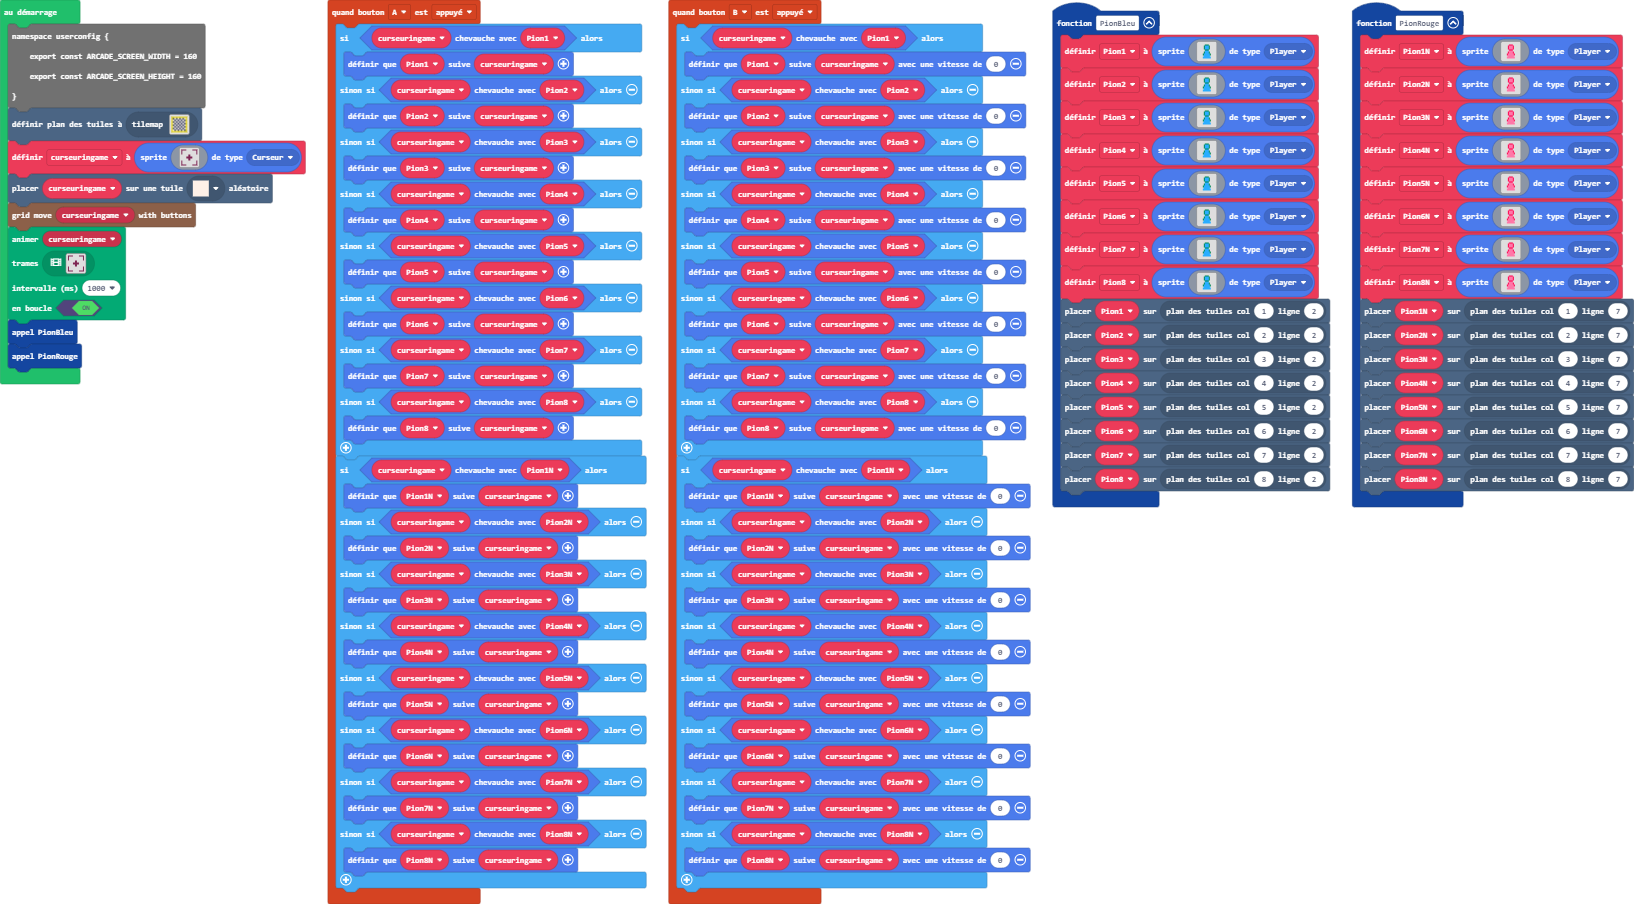
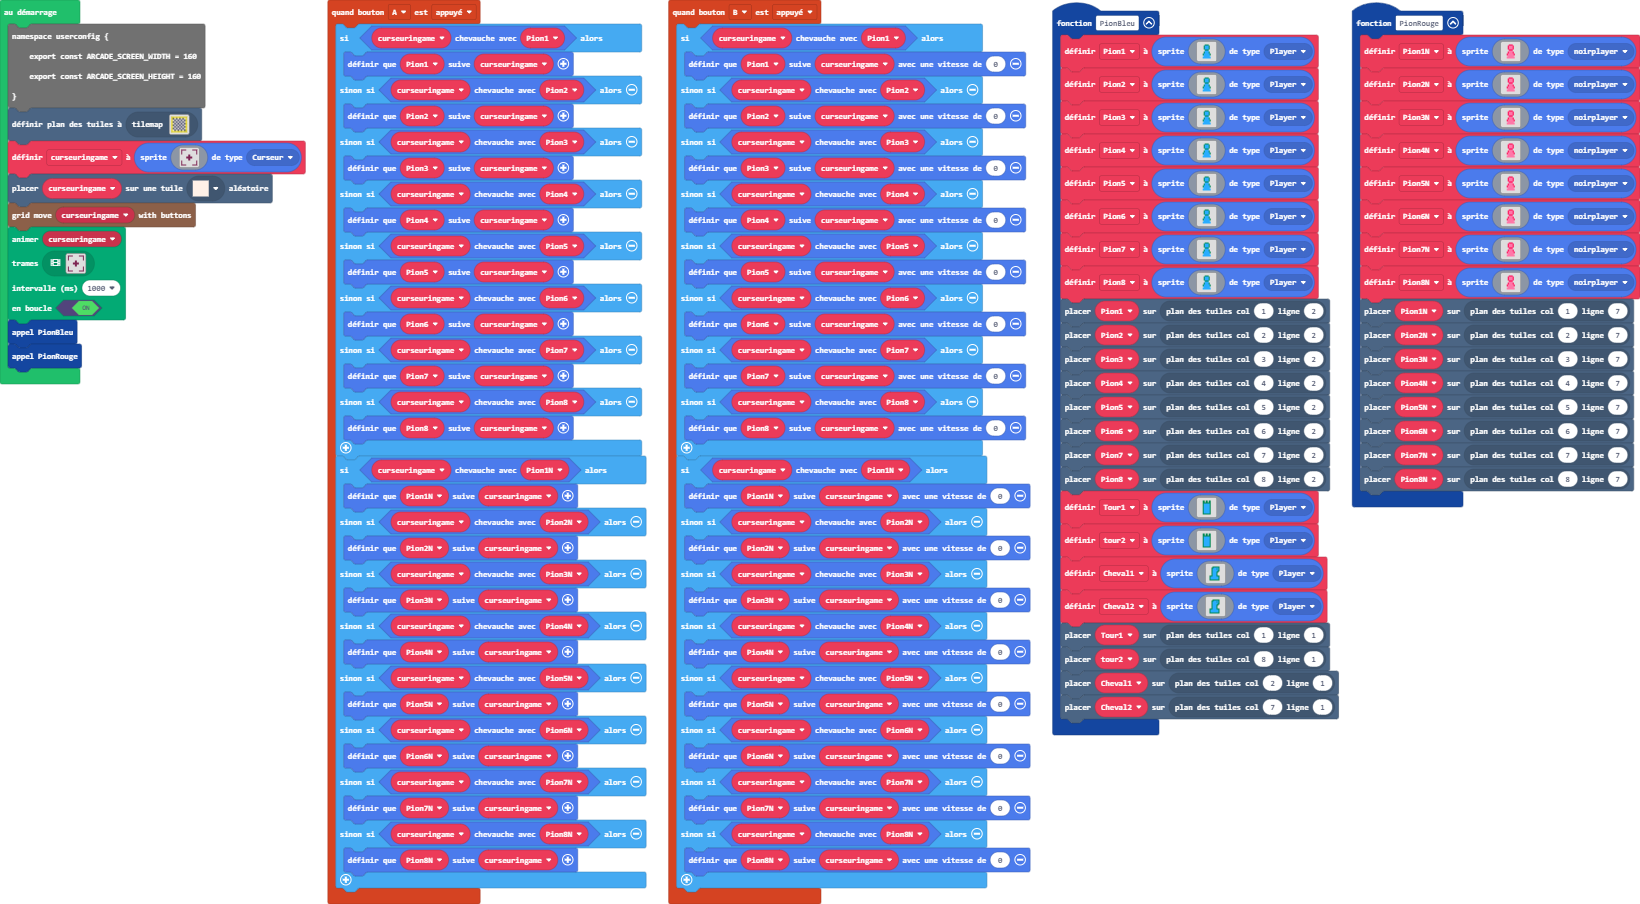
Mise à jour main.blocks, main.ts

diff --git a/main.ts b/main.ts
@@ -1,5 +1,6 @@
 namespace SpriteKind {
     export const Curseur = SpriteKind.create()
+    export const noirplayer = SpriteKind.create()
 }
 function PionBleu () {
     Pion1 = sprites.create(img`
@@ -154,6 +155,82 @@ function PionBleu () {
     tiles.placeOnTile(Pion6, tiles.getTileLocation(6, 2))
     tiles.placeOnTile(Pion7, tiles.getTileLocation(7, 2))
     tiles.placeOnTile(Pion8, tiles.getTileLocation(8, 2))
+    Tour1 = sprites.create(img`
+        . . . . . . . . . . . . . . . . 
+        . . . . 6 6 . 6 6 . 6 6 . . . . 
+        . . . . 6 6 . 6 6 . 6 6 . . . . 
+        . . . . 6 6 6 6 6 6 6 6 . . . . 
+        . . . . 6 8 8 8 8 8 8 6 . . . . 
+        . . . . 6 8 8 8 8 8 8 6 . . . . 
+        . . . . 6 8 8 8 8 8 8 6 . . . . 
+        . . . . 6 8 8 8 8 8 8 6 . . . . 
+        . . . . 6 8 8 8 8 8 8 6 . . . . 
+        . . . . 6 8 8 8 8 8 8 6 . . . . 
+        . . . . 6 8 8 8 8 8 8 6 . . . . 
+        . . . . 6 8 8 8 8 8 8 6 . . . . 
+        . . . . 6 8 8 8 8 8 8 6 . . . . 
+        . . . . 6 8 8 8 8 8 8 6 . . . . 
+        . . . . 6 6 6 6 6 6 6 6 . . . . 
+        . . . . . . . . . . . . . . . . 
+        `, SpriteKind.Player)
+    tour2 = sprites.create(img`
+        . . . . . . . . . . . . . . . . 
+        . . . . 6 6 . 6 6 . 6 6 . . . . 
+        . . . . 6 6 . 6 6 . 6 6 . . . . 
+        . . . . 6 6 6 6 6 6 6 6 . . . . 
+        . . . . 6 8 8 8 8 8 8 6 . . . . 
+        . . . . 6 8 8 8 8 8 8 6 . . . . 
+        . . . . 6 8 8 8 8 8 8 6 . . . . 
+        . . . . 6 8 8 8 8 8 8 6 . . . . 
+        . . . . 6 8 8 8 8 8 8 6 . . . . 
+        . . . . 6 8 8 8 8 8 8 6 . . . . 
+        . . . . 6 8 8 8 8 8 8 6 . . . . 
+        . . . . 6 8 8 8 8 8 8 6 . . . . 
+        . . . . 6 8 8 8 8 8 8 6 . . . . 
+        . . . . 6 8 8 8 8 8 8 6 . . . . 
+        . . . . 6 6 6 6 6 6 6 6 . . . . 
+        . . . . . . . . . . . . . . . . 
+        `, SpriteKind.Player)
+    Cheval1 = sprites.create(img`
+        . . . . . . . . . . . . . . . . 
+        . . . . . 6 6 6 6 6 6 6 . . . . 
+        . . . . 6 6 8 8 8 8 8 6 . . . . 
+        . . . . 6 8 8 8 8 6 8 6 . . . . 
+        . . . . 6 8 8 8 8 8 8 6 . . . . 
+        . . . . 6 8 8 8 8 8 6 6 . . . . 
+        . . . . 6 8 8 8 8 6 6 . . . . . 
+        . . . . 6 8 8 8 8 6 . . . . . . 
+        . . . . 6 8 8 8 8 6 . . . . . . 
+        . . . . 6 8 8 8 8 6 . . . . . . 
+        . . 6 6 6 8 8 8 8 6 6 6 . . . . 
+        . . 6 8 8 8 8 8 8 8 8 6 . . . . 
+        . . 6 8 8 8 8 8 8 8 8 6 . . . . 
+        . . 6 8 8 8 8 8 8 8 8 6 . . . . 
+        . . 6 6 6 6 6 6 6 6 6 6 . . . . 
+        . . . . . . . . . . . . . . . . 
+        `, SpriteKind.Player)
+    Cheval2 = sprites.create(img`
+        . . . . . . . . . . . . . . . . 
+        . . . . . 6 6 6 6 6 6 6 . . . . 
+        . . . . 6 6 8 8 8 8 8 6 . . . . 
+        . . . . 6 8 8 8 8 6 8 6 . . . . 
+        . . . . 6 8 8 8 8 8 8 6 . . . . 
+        . . . . 6 8 8 8 8 8 6 6 . . . . 
+        . . . . 6 8 8 8 8 6 6 . . . . . 
+        . . . . 6 8 8 8 8 6 . . . . . . 
+        . . . . 6 8 8 8 8 6 . . . . . . 
+        . . . . 6 8 8 8 8 6 . . . . . . 
+        . . 6 6 6 8 8 8 8 6 6 6 . . . . 
+        . . 6 8 8 8 8 8 8 8 8 6 . . . . 
+        . . 6 8 8 8 8 8 8 8 8 6 . . . . 
+        . . 6 8 8 8 8 8 8 8 8 6 . . . . 
+        . . 6 6 6 6 6 6 6 6 6 6 . . . . 
+        . . . . . . . . . . . . . . . . 
+        `, SpriteKind.Player)
+    tiles.placeOnTile(Tour1, tiles.getTileLocation(1, 1))
+    tiles.placeOnTile(tour2, tiles.getTileLocation(8, 1))
+    tiles.placeOnTile(Cheval1, tiles.getTileLocation(2, 1))
+    tiles.placeOnTile(Cheval2, tiles.getTileLocation(7, 1))
 }
 controller.A.onEvent(ControllerButtonEvent.Pressed, function () {
     if (curseuringame.overlapsWith(Pion1)) {
@@ -209,7 +286,7 @@ function PionRouge () {
         . . . . 3 3 3 3 3 3 3 3 . . . . 
         . . . . 3 3 3 3 3 3 3 3 . . . . 
         . . . . . . . . . . . . . . . . 
-        `, SpriteKind.Player)
+        `, SpriteKind.noirplayer)
     Pion2N = sprites.create(img`
         . . . . . . . . . . . . . . . . 
         . . . . . . 2 2 2 2 . . . . . . 
@@ -227,7 +304,7 @@ function PionRouge () {
         . . . . 3 3 3 3 3 3 3 3 . . . . 
         . . . . 3 3 3 3 3 3 3 3 . . . . 
         . . . . . . . . . . . . . . . . 
-        `, SpriteKind.Player)
+        `, SpriteKind.noirplayer)
     Pion3N = sprites.create(img`
         . . . . . . . . . . . . . . . . 
         . . . . . . 2 2 2 2 . . . . . . 
@@ -245,7 +322,7 @@ function PionRouge () {
         . . . . 3 3 3 3 3 3 3 3 . . . . 
         . . . . 3 3 3 3 3 3 3 3 . . . . 
         . . . . . . . . . . . . . . . . 
-        `, SpriteKind.Player)
+        `, SpriteKind.noirplayer)
     Pion4N = sprites.create(img`
         . . . . . . . . . . . . . . . . 
         . . . . . . 2 2 2 2 . . . . . . 
@@ -263,7 +340,7 @@ function PionRouge () {
         . . . . 3 3 3 3 3 3 3 3 . . . . 
         . . . . 3 3 3 3 3 3 3 3 . . . . 
         . . . . . . . . . . . . . . . . 
-        `, SpriteKind.Player)
+        `, SpriteKind.noirplayer)
     Pion5N = sprites.create(img`
         . . . . . . . . . . . . . . . . 
         . . . . . . 2 2 2 2 . . . . . . 
@@ -281,7 +358,7 @@ function PionRouge () {
         . . . . 3 3 3 3 3 3 3 3 . . . . 
         . . . . 3 3 3 3 3 3 3 3 . . . . 
         . . . . . . . . . . . . . . . . 
-        `, SpriteKind.Player)
+        `, SpriteKind.noirplayer)
     Pion6N = sprites.create(img`
         . . . . . . . . . . . . . . . . 
         . . . . . . 2 2 2 2 . . . . . . 
@@ -299,7 +376,7 @@ function PionRouge () {
         . . . . 3 3 3 3 3 3 3 3 . . . . 
         . . . . 3 3 3 3 3 3 3 3 . . . . 
         . . . . . . . . . . . . . . . . 
-        `, SpriteKind.Player)
+        `, SpriteKind.noirplayer)
     Pion7N = sprites.create(img`
         . . . . . . . . . . . . . . . . 
         . . . . . . 2 2 2 2 . . . . . . 
@@ -317,7 +394,7 @@ function PionRouge () {
         . . . . 3 3 3 3 3 3 3 3 . . . . 
         . . . . 3 3 3 3 3 3 3 3 . . . . 
         . . . . . . . . . . . . . . . . 
-        `, SpriteKind.Player)
+        `, SpriteKind.noirplayer)
     Pion8N = sprites.create(img`
         . . . . . . . . . . . . . . . . 
         . . . . . . 2 2 2 2 . . . . . . 
@@ -335,7 +412,7 @@ function PionRouge () {
         . . . . 3 3 3 3 3 3 3 3 . . . . 
         . . . . 3 3 3 3 3 3 3 3 . . . . 
         . . . . . . . . . . . . . . . . 
-        `, SpriteKind.Player)
+        `, SpriteKind.noirplayer)
     tiles.placeOnTile(Pion1N, tiles.getTileLocation(1, 7))
     tiles.placeOnTile(Pion2N, tiles.getTileLocation(2, 7))
     tiles.placeOnTile(Pion3N, tiles.getTileLocation(3, 7))
@@ -389,6 +466,10 @@ let Pion4N: Sprite = null
 let Pion3N: Sprite = null
 let Pion2N: Sprite = null
 let Pion1N: Sprite = null
+let Cheval2: Sprite = null
+let Cheval1: Sprite = null
+let tour2: Sprite = null
+let Tour1: Sprite = null
 let Pion8: Sprite = null
 let Pion7: Sprite = null
 let Pion6: Sprite = null
